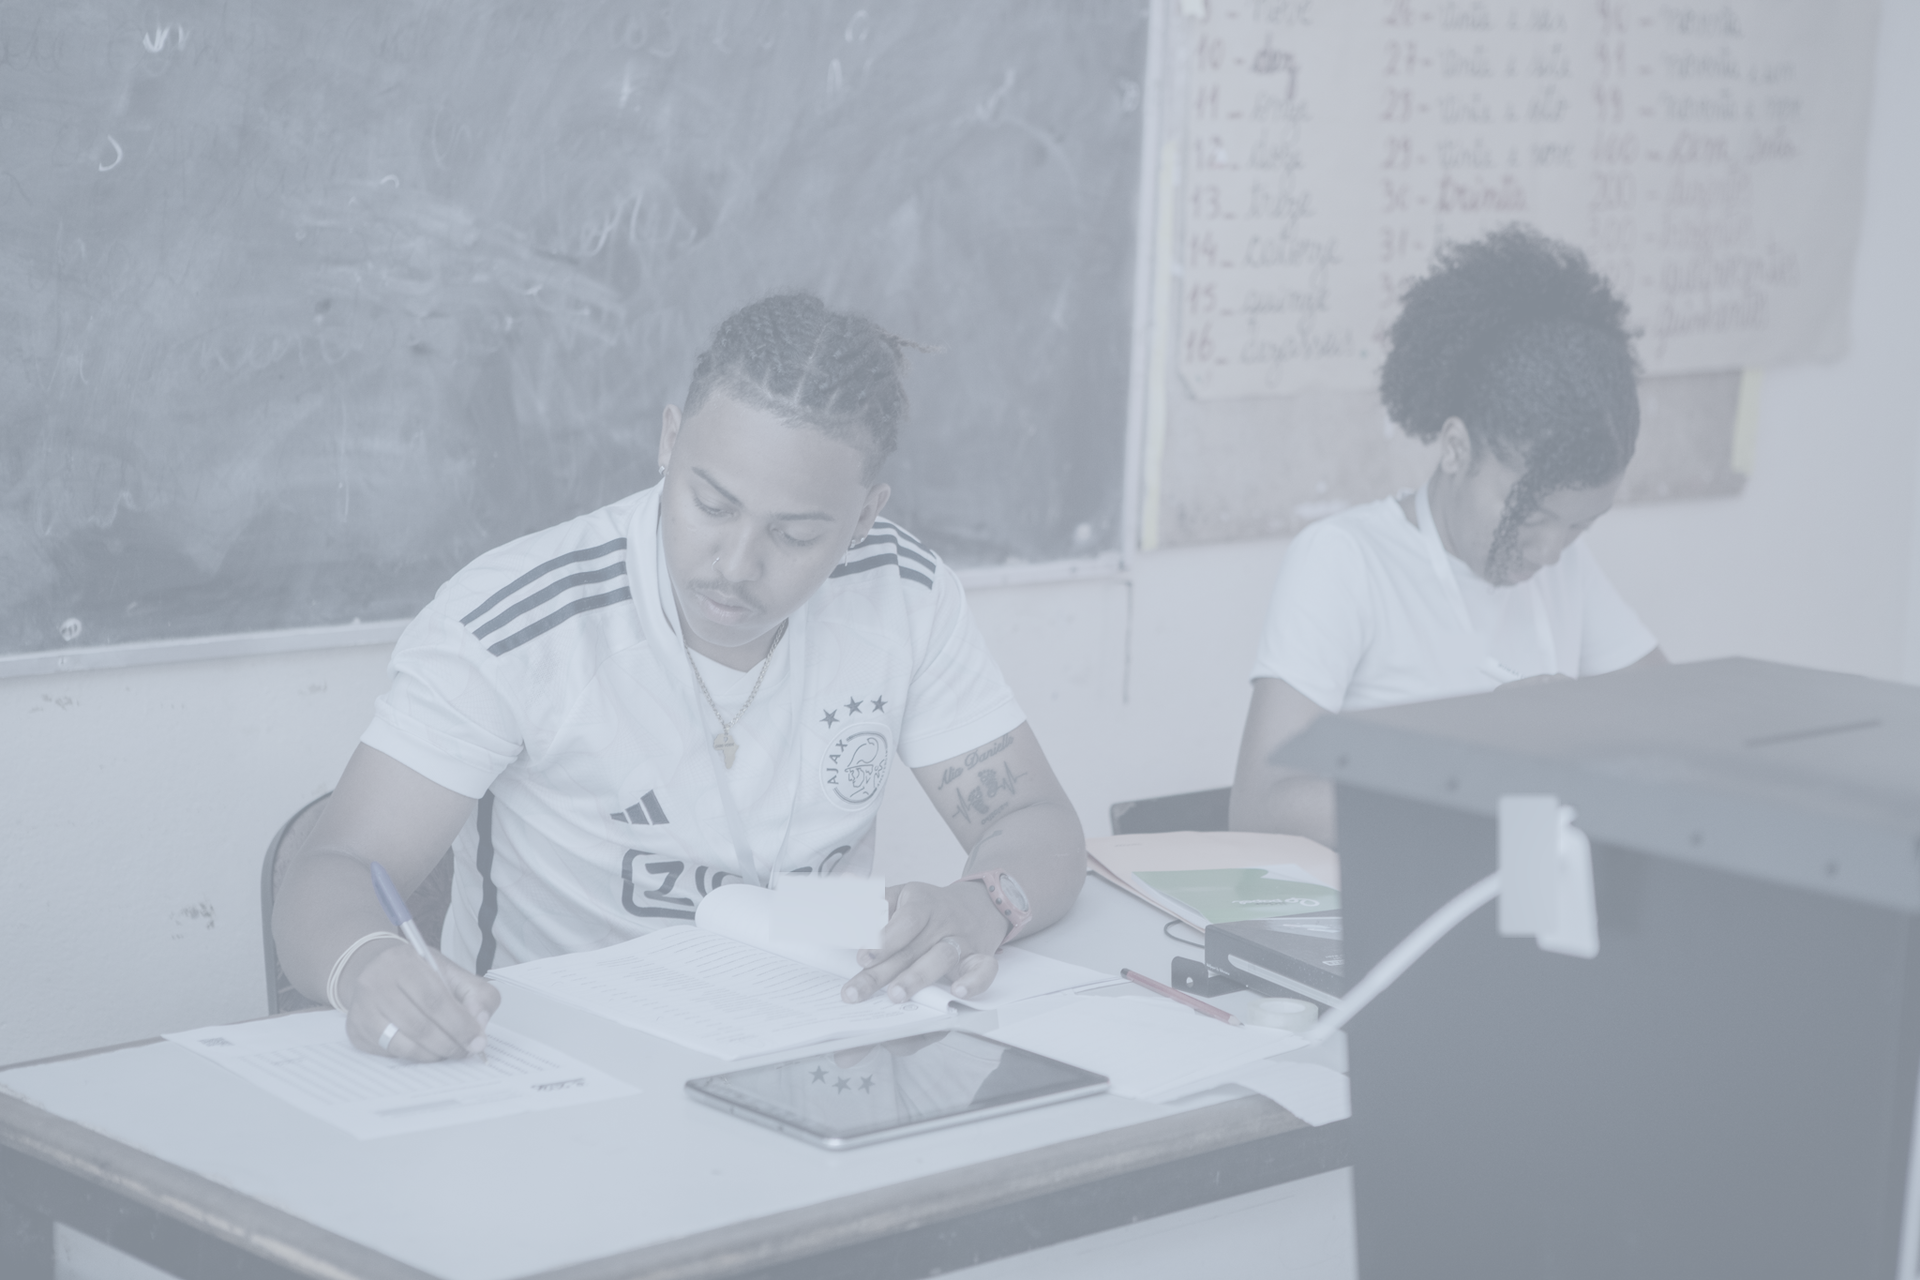
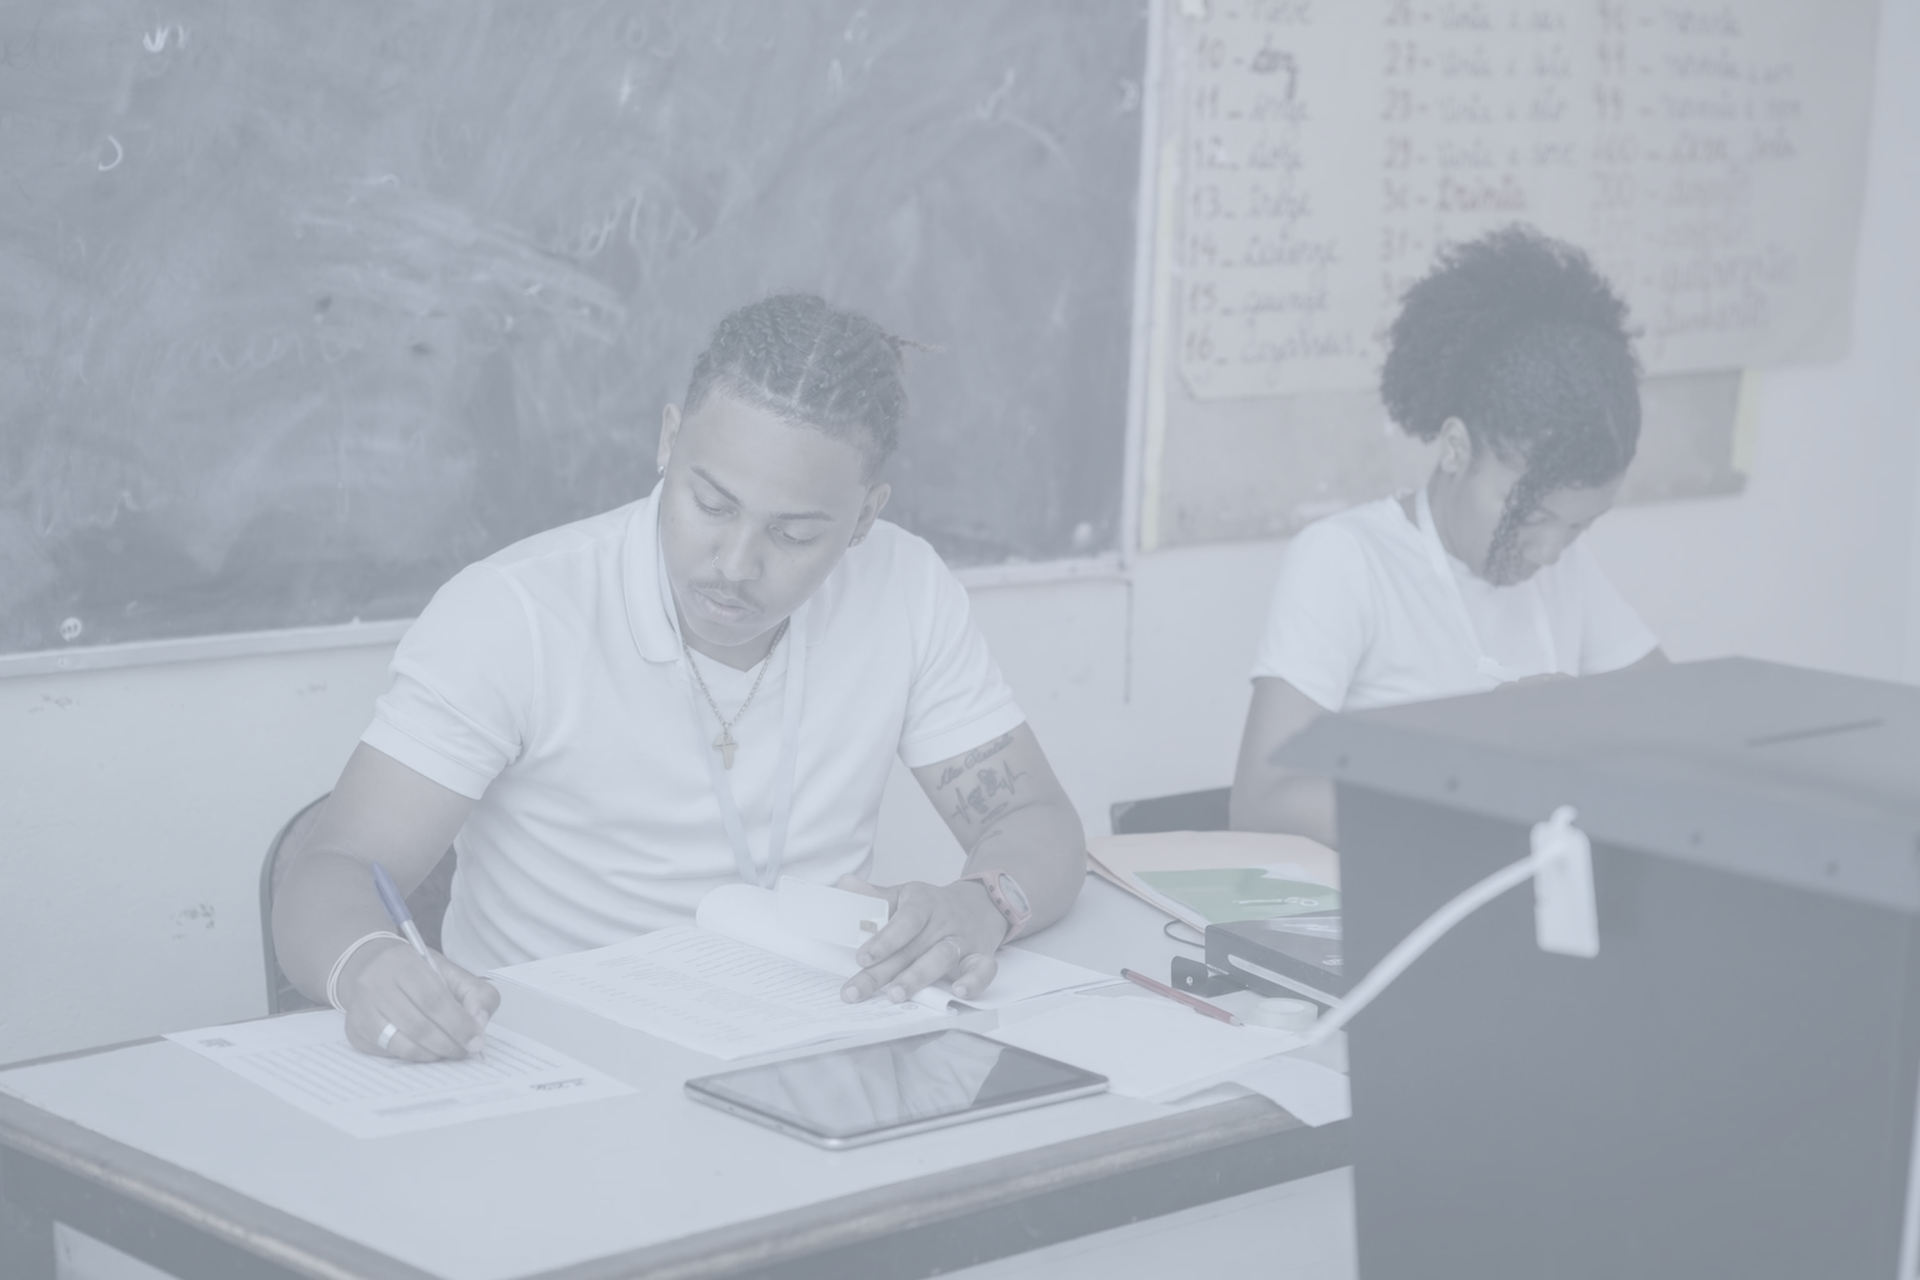
V1: foto nova no 'deve exigir', cartão limpo com tom natural, texto afastado da cabeça
Claude-Session: https://claude.ai/code/session_01B7qCVcC1uXVL2xuSSAUW2M

diff --git a/comunicado_regras/novos_src/motion/v1anim.html b/comunicado_regras/novos_src/motion/v1anim.html
@@ -270,7 +270,7 @@ BT.forEach(b=>{const MV=['M10','M11','M12','M13','M14','M15','M16','M17','M18'].
   if(b.n=='28'&&(OPT.has('S1')||OPT.has('S2')))b.ics=[OPT.has('S2')?'PANELSUP':'bg_sup','troca']});
 const LAY={bg_13:{tx:[140,215],ic:[1560,400,300],ts:{engren:[11.35,14.6],checklist:[11.35,11.9,12.6,14.6]}},bg_38:{tx:[140,575],ic:[1650,330,250],ts:{tel1:[36.7,39.2],tel2:[36.7,39.2]}},
   bg_sup:{dy:150,ic:[560,720,300]},
-  V6c:{kb:1,tx:[960,285]},V6cK1:{kb:1,tx:[960,250],ic:[1075,790,250]},V6cK2:{kb:1,tx:[1000,285],ic:[830,440,240]},V7a:{kb:1,tx:[720,600]},V7ax:{kb:1,tx:[110,250],fx:1},V9x:{kb:1,tx:[90,520],fx:1,fs:.78},V7c:{kb:1,tx:[140,690]},V7cx:{kb:1,tx:[110,650],fx:1},
+  V6c:{kb:1,tx:[960,285]},V6cK1:{kb:1,tx:[960,250],ic:[1075,790,250]},V6cK2:{kb:1,tx:[1000,285],ic:[830,440,240]},V7a:{kb:1,tx:[720,600]},V7ax:{kb:1,tx:[60,235],fx:1,fs:.85},V9x:{kb:1,tx:[90,520],fx:1,fs:.78},V7c:{kb:1,tx:[140,690]},V7cx:{kb:1,tx:[110,650],fx:1},
   V7bC1:{tx:[140,360],mw:720},V7bC2:{tx:[140,360],mw:820},V9:{kb:1,bgTop:0,tx:[140,560],fs:.82},
   M7:{kb:1,bgTop:0,custom:1},M10:{kb:1,bgTop:0,bgLeft:560,custom:1},M11:{custom:1},M12:{kb:1,bgTop:0,custom:1},
   M13:{kb:1,bgTop:0,custom:1,cc:{top:178,sz:[.82,.92,.82,.82],dx:[0,0,0,0]}},

diff --git a/comunicado_regras/novos_src/v1src/clean.py b/comunicado_regras/novos_src/v1src/clean.py
@@ -1,0 +1,16 @@
+# Limpa cartões/etiquetas: cartão liso com o tom e a sombra do original (sem mancha nem desfoque)
+from PIL import Image, ImageDraw, ImageFilter
+import numpy as np
+def clean(im,polys):
+    im=im.convert('RGB'); a=np.asarray(im).astype(np.float32)
+    big=np.asarray(im.filter(ImageFilter.GaussianBlur(14))).astype(np.float32)
+    for P in polys:
+        m=Image.new('L',im.size,0); ImageDraw.Draw(m).polygon(P,fill=255)
+        mk=np.asarray(m)>0; med=np.median(a[mk],axis=0)
+        lum=big.mean(2); dl=lum-lum[mk].mean()
+        fill=np.clip(med[None,None,:]+0.5*dl[...,None],0,255)
+        # grão fino para não parecer plástico
+        fill=fill+np.random.default_rng(1).normal(0,1.6,fill.shape)
+        al=np.asarray(m.filter(ImageFilter.GaussianBlur(.8))).astype(np.float32)[...,None]/255
+        a=a*(1-al)+fill*al
+    return Image.fromarray(np.clip(a,0,255).astype(np.uint8))
